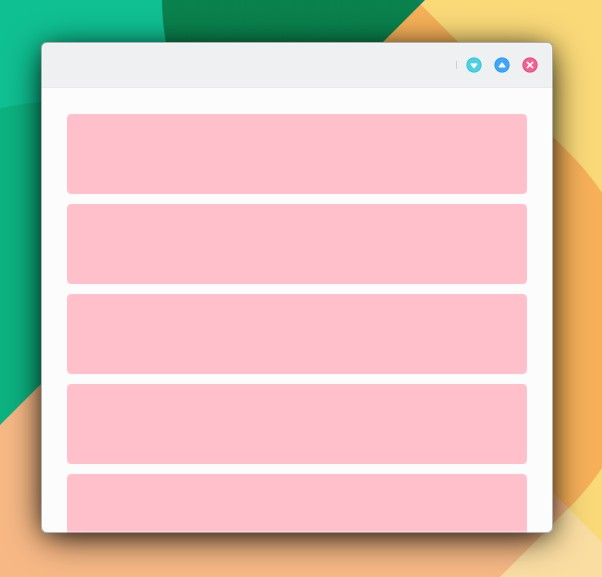
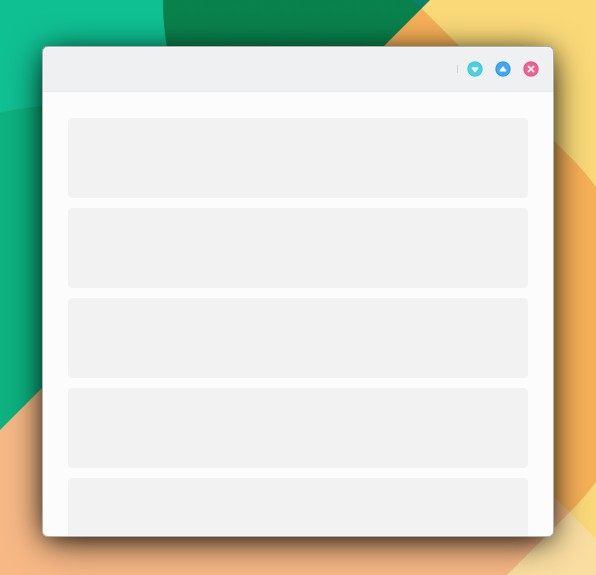
GITBOOK-232: change request with no subject merged in GitBook

diff --git a/mauikit/controles/listbrowser.md b/mauikit/controles/listbrowser.md
@@ -37,7 +37,7 @@ Maui.ApplicationWindow
                     anchors.fill: parent
                     anchors.margins: 0
                     radius: 4
-                    color: "pink"
+                    color: Maui.Theme.alternateBackgroundColor
                 }
             }
         }
